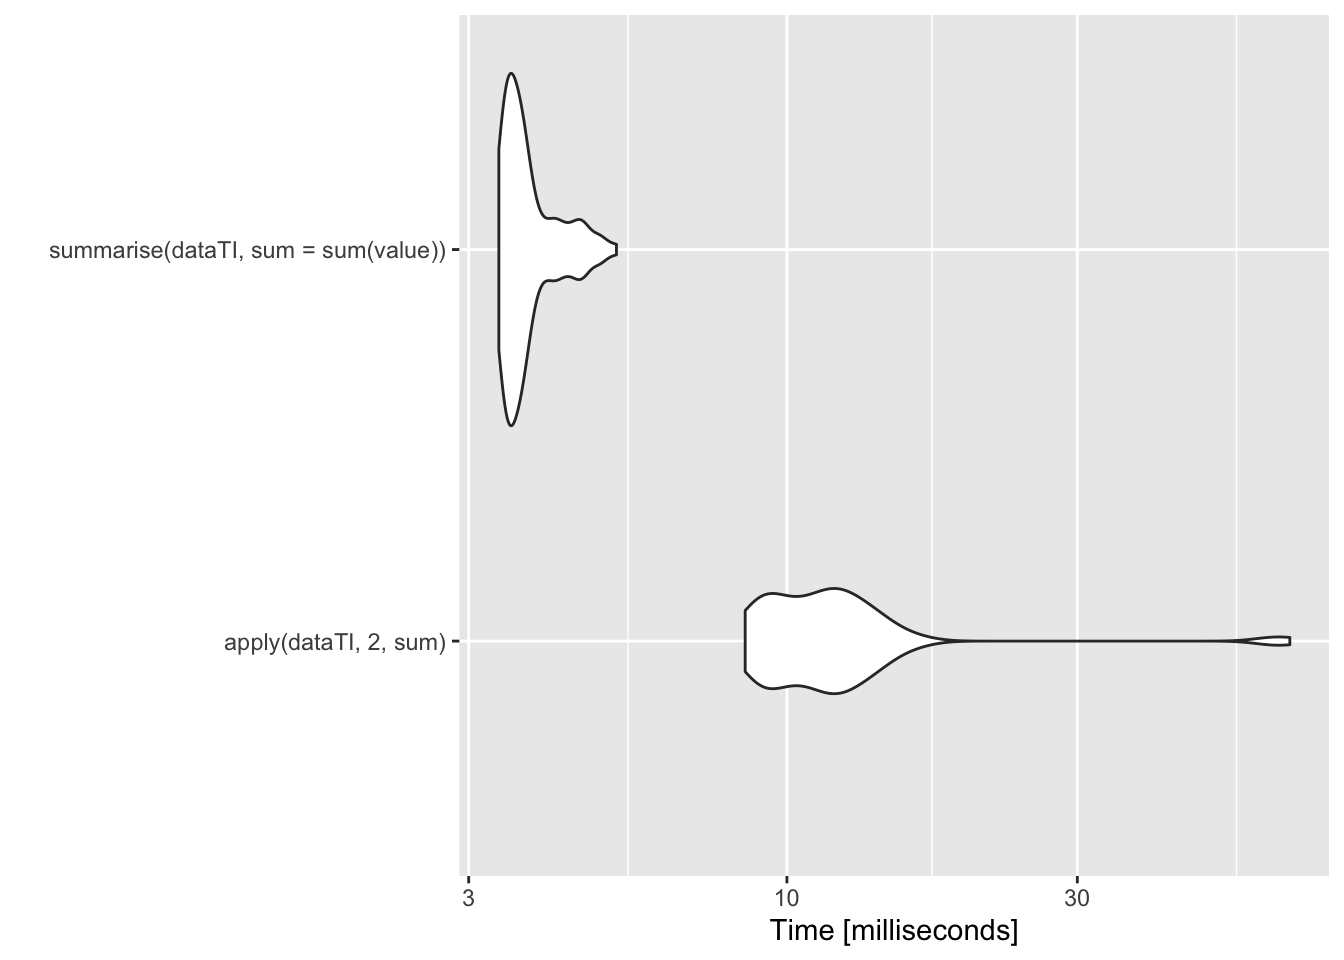
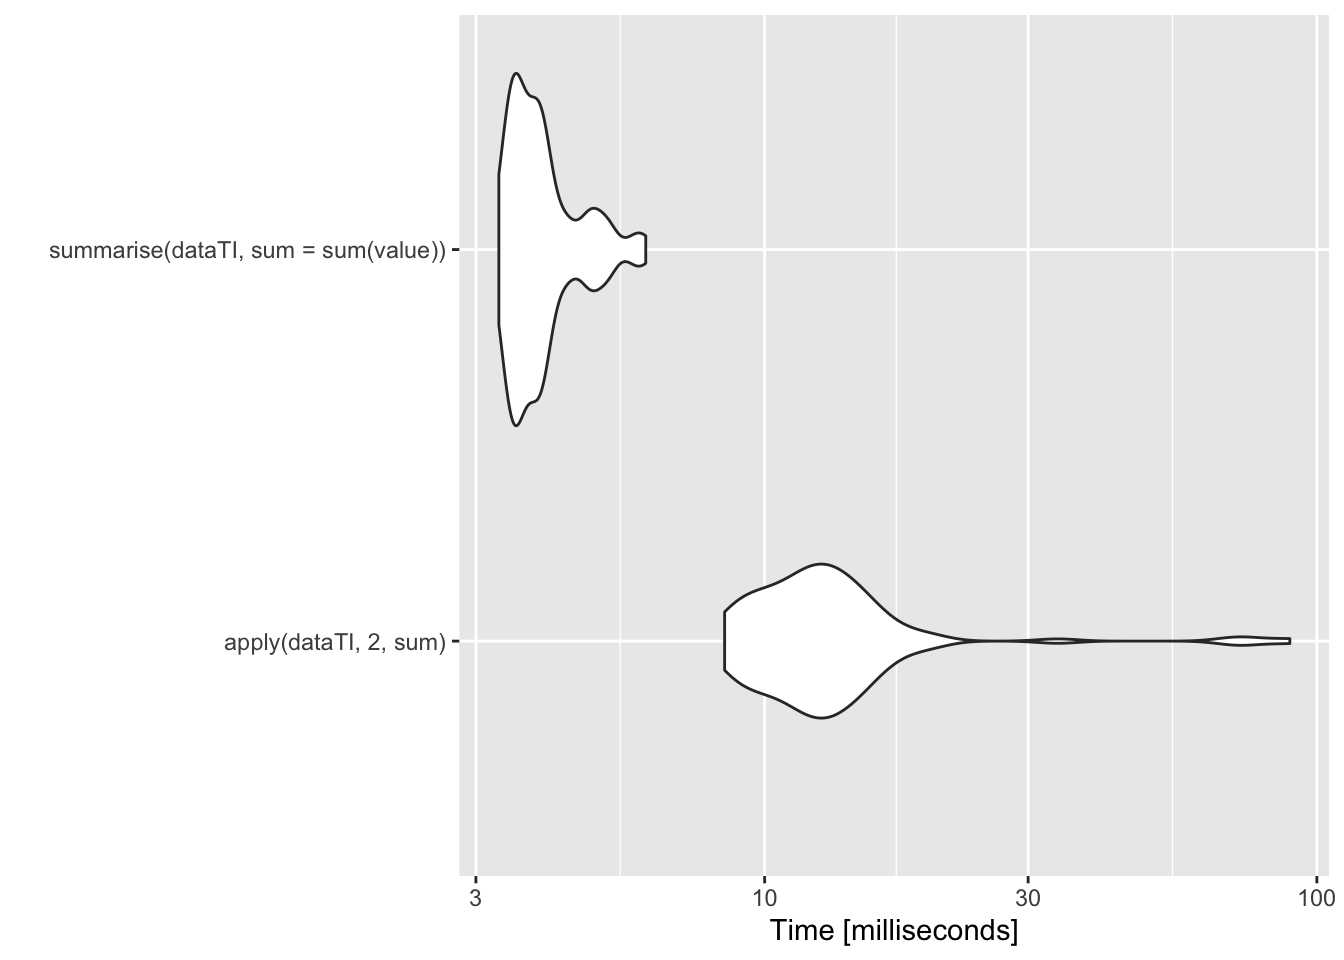
good

diff --git a/data-transformation-1.html b/data-transformation-1.html
@@ -324,20 +324,10 @@ code > span.in { color: #60a0b0; font-weight: bold; font-style: italic; } /* Inf
 </ul>
 <div class="sourceCode"><pre class="sourceCode r"><code class="sourceCode r"><span class="co">#install.packages(&quot;microbenchmark&quot;)</span>
 
-<span class="kw">library</span>(tidyverse)</code></pre></div>
-<pre><code>## ── Attaching packages ────────────────────────────────────────────── tidyverse 1.2.1 ──</code></pre>
-<pre><code>## ✔ ggplot2 3.2.1     ✔ purrr   0.3.2
-## ✔ tibble  2.1.3     ✔ dplyr   0.8.3
-## ✔ tidyr   1.0.0     ✔ stringr 1.4.0
-## ✔ readr   1.3.1     ✔ forcats 0.4.0</code></pre>
-<pre><code>## ── Conflicts ───────────────────────────────────────────────── tidyverse_conflicts() ──
-## ✖ dplyr::filter() masks stats::filter()
-## ✖ dplyr::lag()    masks stats::lag()</code></pre>
-<div class="sourceCode"><pre class="sourceCode r"><code class="sourceCode r"><span class="kw">library</span>(microbenchmark)
-dataTI &lt;-<span class="st"> </span><span class="kw">as_tibble</span>(<span class="kw">c</span>(<span class="dv">1</span><span class="op">:</span><span class="dv">1000000</span>)) </code></pre></div>
-<pre><code>## Warning: Calling `as_tibble()` on a vector is discouraged, because the behavior is likely to change in the future. Use `tibble::enframe(name = NULL)` instead.
-## This warning is displayed once per session.</code></pre>
-<div class="sourceCode"><pre class="sourceCode r"><code class="sourceCode r">dataTI</code></pre></div>
+<span class="kw">library</span>(tidyverse)
+<span class="kw">library</span>(microbenchmark)
+dataTI &lt;-<span class="st"> </span><span class="kw">as_tibble</span>(<span class="kw">c</span>(<span class="dv">1</span><span class="op">:</span><span class="dv">1000000</span>)) 
+dataTI</code></pre></div>
 <pre><code>## # A tibble: 1,000,000 x 1
 ##    value
 ##    &lt;int&gt;
@@ -355,316 +345,18 @@ dataTI &lt;-<span class="st"> </span><span class="kw">as_tibble</span>(<span cla
 <div class="sourceCode"><pre class="sourceCode r"><code class="sourceCode r">results &lt;-<span class="st"> </span><span class="kw">microbenchmark</span>(
   <span class="kw">apply</span>(dataTI, <span class="dv">2</span>, sum),
   <span class="kw">summarise</span>(dataTI, <span class="dt">sum=</span><span class="kw">sum</span>(value))
-)</code></pre></div>
-<pre><code>## Warning in summarise_impl(.data, dots, environment(), caller_env()):
-## integer overflow - use sum(as.numeric(.))</code></pre>
-<pre><code>## Warning in summarise_impl(.data, dots, environment(), caller_env()):
-## integer overflow - use sum(as.numeric(.))
+)
 
-## Warning in summarise_impl(.data, dots, environment(), caller_env()):
-## integer overflow - use sum(as.numeric(.))
-
-## Warning in summarise_impl(.data, dots, environment(), caller_env()):
-## integer overflow - use sum(as.numeric(.))
-
-## Warning in summarise_impl(.data, dots, environment(), caller_env()):
-## integer overflow - use sum(as.numeric(.))
-
-## Warning in summarise_impl(.data, dots, environment(), caller_env()):
-## integer overflow - use sum(as.numeric(.))
-
-## Warning in summarise_impl(.data, dots, environment(), caller_env()):
-## integer overflow - use sum(as.numeric(.))
-
-## Warning in summarise_impl(.data, dots, environment(), caller_env()):
-## integer overflow - use sum(as.numeric(.))
-
-## Warning in summarise_impl(.data, dots, environment(), caller_env()):
-## integer overflow - use sum(as.numeric(.))
-
-## Warning in summarise_impl(.data, dots, environment(), caller_env()):
-## integer overflow - use sum(as.numeric(.))
-
-## Warning in summarise_impl(.data, dots, environment(), caller_env()):
-## integer overflow - use sum(as.numeric(.))
-
-## Warning in summarise_impl(.data, dots, environment(), caller_env()):
-## integer overflow - use sum(as.numeric(.))
-
-## Warning in summarise_impl(.data, dots, environment(), caller_env()):
-## integer overflow - use sum(as.numeric(.))
-
-## Warning in summarise_impl(.data, dots, environment(), caller_env()):
-## integer overflow - use sum(as.numeric(.))
-
-## Warning in summarise_impl(.data, dots, environment(), caller_env()):
-## integer overflow - use sum(as.numeric(.))
-
-## Warning in summarise_impl(.data, dots, environment(), caller_env()):
-## integer overflow - use sum(as.numeric(.))
-
-## Warning in summarise_impl(.data, dots, environment(), caller_env()):
-## integer overflow - use sum(as.numeric(.))
-
-## Warning in summarise_impl(.data, dots, environment(), caller_env()):
-## integer overflow - use sum(as.numeric(.))
-
-## Warning in summarise_impl(.data, dots, environment(), caller_env()):
-## integer overflow - use sum(as.numeric(.))
-
-## Warning in summarise_impl(.data, dots, environment(), caller_env()):
-## integer overflow - use sum(as.numeric(.))
-
-## Warning in summarise_impl(.data, dots, environment(), caller_env()):
-## integer overflow - use sum(as.numeric(.))
-
-## Warning in summarise_impl(.data, dots, environment(), caller_env()):
-## integer overflow - use sum(as.numeric(.))
-
-## Warning in summarise_impl(.data, dots, environment(), caller_env()):
-## integer overflow - use sum(as.numeric(.))
-
-## Warning in summarise_impl(.data, dots, environment(), caller_env()):
-## integer overflow - use sum(as.numeric(.))
-
-## Warning in summarise_impl(.data, dots, environment(), caller_env()):
-## integer overflow - use sum(as.numeric(.))
-
-## Warning in summarise_impl(.data, dots, environment(), caller_env()):
-## integer overflow - use sum(as.numeric(.))
-
-## Warning in summarise_impl(.data, dots, environment(), caller_env()):
-## integer overflow - use sum(as.numeric(.))
-
-## Warning in summarise_impl(.data, dots, environment(), caller_env()):
-## integer overflow - use sum(as.numeric(.))
-
-## Warning in summarise_impl(.data, dots, environment(), caller_env()):
-## integer overflow - use sum(as.numeric(.))
-
-## Warning in summarise_impl(.data, dots, environment(), caller_env()):
-## integer overflow - use sum(as.numeric(.))
-
-## Warning in summarise_impl(.data, dots, environment(), caller_env()):
-## integer overflow - use sum(as.numeric(.))
-
-## Warning in summarise_impl(.data, dots, environment(), caller_env()):
-## integer overflow - use sum(as.numeric(.))
-
-## Warning in summarise_impl(.data, dots, environment(), caller_env()):
-## integer overflow - use sum(as.numeric(.))
-
-## Warning in summarise_impl(.data, dots, environment(), caller_env()):
-## integer overflow - use sum(as.numeric(.))
-
-## Warning in summarise_impl(.data, dots, environment(), caller_env()):
-## integer overflow - use sum(as.numeric(.))
-
-## Warning in summarise_impl(.data, dots, environment(), caller_env()):
-## integer overflow - use sum(as.numeric(.))
-
-## Warning in summarise_impl(.data, dots, environment(), caller_env()):
-## integer overflow - use sum(as.numeric(.))
-
-## Warning in summarise_impl(.data, dots, environment(), caller_env()):
-## integer overflow - use sum(as.numeric(.))
-
-## Warning in summarise_impl(.data, dots, environment(), caller_env()):
-## integer overflow - use sum(as.numeric(.))
-
-## Warning in summarise_impl(.data, dots, environment(), caller_env()):
-## integer overflow - use sum(as.numeric(.))
-
-## Warning in summarise_impl(.data, dots, environment(), caller_env()):
-## integer overflow - use sum(as.numeric(.))
-
-## Warning in summarise_impl(.data, dots, environment(), caller_env()):
-## integer overflow - use sum(as.numeric(.))
-
-## Warning in summarise_impl(.data, dots, environment(), caller_env()):
-## integer overflow - use sum(as.numeric(.))
-
-## Warning in summarise_impl(.data, dots, environment(), caller_env()):
-## integer overflow - use sum(as.numeric(.))
-
-## Warning in summarise_impl(.data, dots, environment(), caller_env()):
-## integer overflow - use sum(as.numeric(.))
-
-## Warning in summarise_impl(.data, dots, environment(), caller_env()):
-## integer overflow - use sum(as.numeric(.))
-
-## Warning in summarise_impl(.data, dots, environment(), caller_env()):
-## integer overflow - use sum(as.numeric(.))
-
-## Warning in summarise_impl(.data, dots, environment(), caller_env()):
-## integer overflow - use sum(as.numeric(.))
-
-## Warning in summarise_impl(.data, dots, environment(), caller_env()):
-## integer overflow - use sum(as.numeric(.))
-
-## Warning in summarise_impl(.data, dots, environment(), caller_env()):
-## integer overflow - use sum(as.numeric(.))
-
-## Warning in summarise_impl(.data, dots, environment(), caller_env()):
-## integer overflow - use sum(as.numeric(.))
-
-## Warning in summarise_impl(.data, dots, environment(), caller_env()):
-## integer overflow - use sum(as.numeric(.))
-
-## Warning in summarise_impl(.data, dots, environment(), caller_env()):
-## integer overflow - use sum(as.numeric(.))
-
-## Warning in summarise_impl(.data, dots, environment(), caller_env()):
-## integer overflow - use sum(as.numeric(.))
-
-## Warning in summarise_impl(.data, dots, environment(), caller_env()):
-## integer overflow - use sum(as.numeric(.))
-
-## Warning in summarise_impl(.data, dots, environment(), caller_env()):
-## integer overflow - use sum(as.numeric(.))
-
-## Warning in summarise_impl(.data, dots, environment(), caller_env()):
-## integer overflow - use sum(as.numeric(.))
-
-## Warning in summarise_impl(.data, dots, environment(), caller_env()):
-## integer overflow - use sum(as.numeric(.))
-
-## Warning in summarise_impl(.data, dots, environment(), caller_env()):
-## integer overflow - use sum(as.numeric(.))
-
-## Warning in summarise_impl(.data, dots, environment(), caller_env()):
-## integer overflow - use sum(as.numeric(.))
-
-## Warning in summarise_impl(.data, dots, environment(), caller_env()):
-## integer overflow - use sum(as.numeric(.))
-
-## Warning in summarise_impl(.data, dots, environment(), caller_env()):
-## integer overflow - use sum(as.numeric(.))
-
-## Warning in summarise_impl(.data, dots, environment(), caller_env()):
-## integer overflow - use sum(as.numeric(.))
-
-## Warning in summarise_impl(.data, dots, environment(), caller_env()):
-## integer overflow - use sum(as.numeric(.))
-
-## Warning in summarise_impl(.data, dots, environment(), caller_env()):
-## integer overflow - use sum(as.numeric(.))
-
-## Warning in summarise_impl(.data, dots, environment(), caller_env()):
-## integer overflow - use sum(as.numeric(.))
-
-## Warning in summarise_impl(.data, dots, environment(), caller_env()):
-## integer overflow - use sum(as.numeric(.))
-
-## Warning in summarise_impl(.data, dots, environment(), caller_env()):
-## integer overflow - use sum(as.numeric(.))
-
-## Warning in summarise_impl(.data, dots, environment(), caller_env()):
-## integer overflow - use sum(as.numeric(.))
-
-## Warning in summarise_impl(.data, dots, environment(), caller_env()):
-## integer overflow - use sum(as.numeric(.))
-
-## Warning in summarise_impl(.data, dots, environment(), caller_env()):
-## integer overflow - use sum(as.numeric(.))
-
-## Warning in summarise_impl(.data, dots, environment(), caller_env()):
-## integer overflow - use sum(as.numeric(.))
-
-## Warning in summarise_impl(.data, dots, environment(), caller_env()):
-## integer overflow - use sum(as.numeric(.))
-
-## Warning in summarise_impl(.data, dots, environment(), caller_env()):
-## integer overflow - use sum(as.numeric(.))
-
-## Warning in summarise_impl(.data, dots, environment(), caller_env()):
-## integer overflow - use sum(as.numeric(.))
-
-## Warning in summarise_impl(.data, dots, environment(), caller_env()):
-## integer overflow - use sum(as.numeric(.))
-
-## Warning in summarise_impl(.data, dots, environment(), caller_env()):
-## integer overflow - use sum(as.numeric(.))
-
-## Warning in summarise_impl(.data, dots, environment(), caller_env()):
-## integer overflow - use sum(as.numeric(.))
-
-## Warning in summarise_impl(.data, dots, environment(), caller_env()):
-## integer overflow - use sum(as.numeric(.))
-
-## Warning in summarise_impl(.data, dots, environment(), caller_env()):
-## integer overflow - use sum(as.numeric(.))
-
-## Warning in summarise_impl(.data, dots, environment(), caller_env()):
-## integer overflow - use sum(as.numeric(.))
-
-## Warning in summarise_impl(.data, dots, environment(), caller_env()):
-## integer overflow - use sum(as.numeric(.))
-
-## Warning in summarise_impl(.data, dots, environment(), caller_env()):
-## integer overflow - use sum(as.numeric(.))
-
-## Warning in summarise_impl(.data, dots, environment(), caller_env()):
-## integer overflow - use sum(as.numeric(.))
-
-## Warning in summarise_impl(.data, dots, environment(), caller_env()):
-## integer overflow - use sum(as.numeric(.))
-
-## Warning in summarise_impl(.data, dots, environment(), caller_env()):
-## integer overflow - use sum(as.numeric(.))
-
-## Warning in summarise_impl(.data, dots, environment(), caller_env()):
-## integer overflow - use sum(as.numeric(.))
-
-## Warning in summarise_impl(.data, dots, environment(), caller_env()):
-## integer overflow - use sum(as.numeric(.))
-
-## Warning in summarise_impl(.data, dots, environment(), caller_env()):
-## integer overflow - use sum(as.numeric(.))
-
-## Warning in summarise_impl(.data, dots, environment(), caller_env()):
-## integer overflow - use sum(as.numeric(.))
-
-## Warning in summarise_impl(.data, dots, environment(), caller_env()):
-## integer overflow - use sum(as.numeric(.))
-
-## Warning in summarise_impl(.data, dots, environment(), caller_env()):
-## integer overflow - use sum(as.numeric(.))
-
-## Warning in summarise_impl(.data, dots, environment(), caller_env()):
-## integer overflow - use sum(as.numeric(.))
-
-## Warning in summarise_impl(.data, dots, environment(), caller_env()):
-## integer overflow - use sum(as.numeric(.))
-
-## Warning in summarise_impl(.data, dots, environment(), caller_env()):
-## integer overflow - use sum(as.numeric(.))
-
-## Warning in summarise_impl(.data, dots, environment(), caller_env()):
-## integer overflow - use sum(as.numeric(.))
-
-## Warning in summarise_impl(.data, dots, environment(), caller_env()):
-## integer overflow - use sum(as.numeric(.))
-
-## Warning in summarise_impl(.data, dots, environment(), caller_env()):
-## integer overflow - use sum(as.numeric(.))
-
-## Warning in summarise_impl(.data, dots, environment(), caller_env()):
-## integer overflow - use sum(as.numeric(.))
-
-## Warning in summarise_impl(.data, dots, environment(), caller_env()):
-## integer overflow - use sum(as.numeric(.))</code></pre>
-<div class="sourceCode"><pre class="sourceCode r"><code class="sourceCode r">results</code></pre></div>
+results</code></pre></div>
 <pre><code>## Unit: milliseconds
-##                                 expr      min       lq      mean    median
-##                apply(dataTI, 2, sum) 8.539102 9.508754 12.925101 11.423007
-##  summarise(dataTI, sum = sum(value)) 3.362824 3.492431  3.775955  3.636931
-##         uq       max neval
-##  12.743001 67.031851   100
-##   3.882135  5.246748   100</code></pre>
+##                                 expr      min        lq      mean
+##                apply(dataTI, 2, sum) 8.463402 10.348334 14.627301
+##  summarise(dataTI, sum = sum(value)) 3.301425  3.532755  3.984659
+##     median       uq       max neval
+##  12.439561 14.36714 89.338120   100
+##   3.828895  4.08434  6.091181   100</code></pre>
 <div class="sourceCode"><pre class="sourceCode r"><code class="sourceCode r"><span class="co"># 수행 분포를 확인</span>
 <span class="kw">autoplot</span>(results) <span class="co"># 실제 수행 모양</span></code></pre></div>
-<pre><code>## Coordinate system already present. Adding new coordinate system, which will replace the existing one.</code></pre>
 <p><img src="test2_files/figure-html/unnamed-chunk-1-1.png" width="672" /></p>
 <div class="sourceCode"><pre class="sourceCode r"><code class="sourceCode r"><span class="co"># 실수행 속도를 산점도로 확인</span>
 <span class="co"># scale_y_log10 : 상용로그 sclae -&gt; 확대 효과</span>
